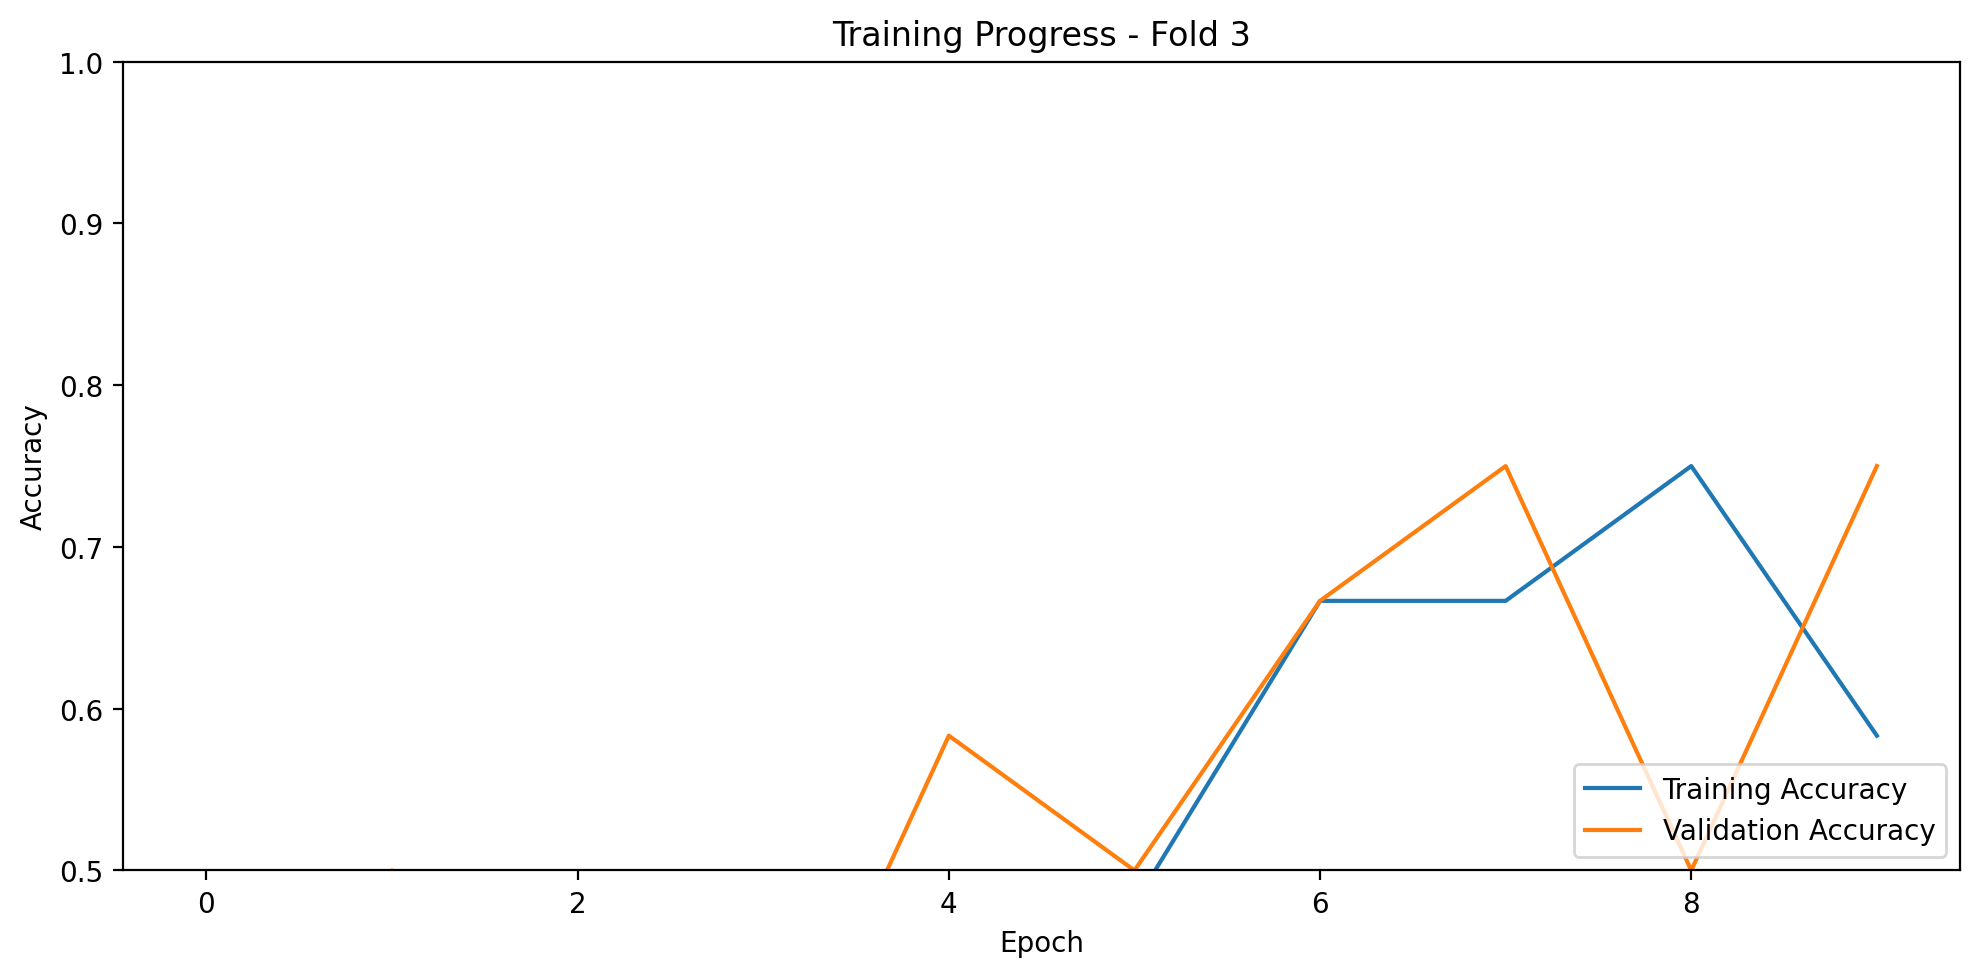
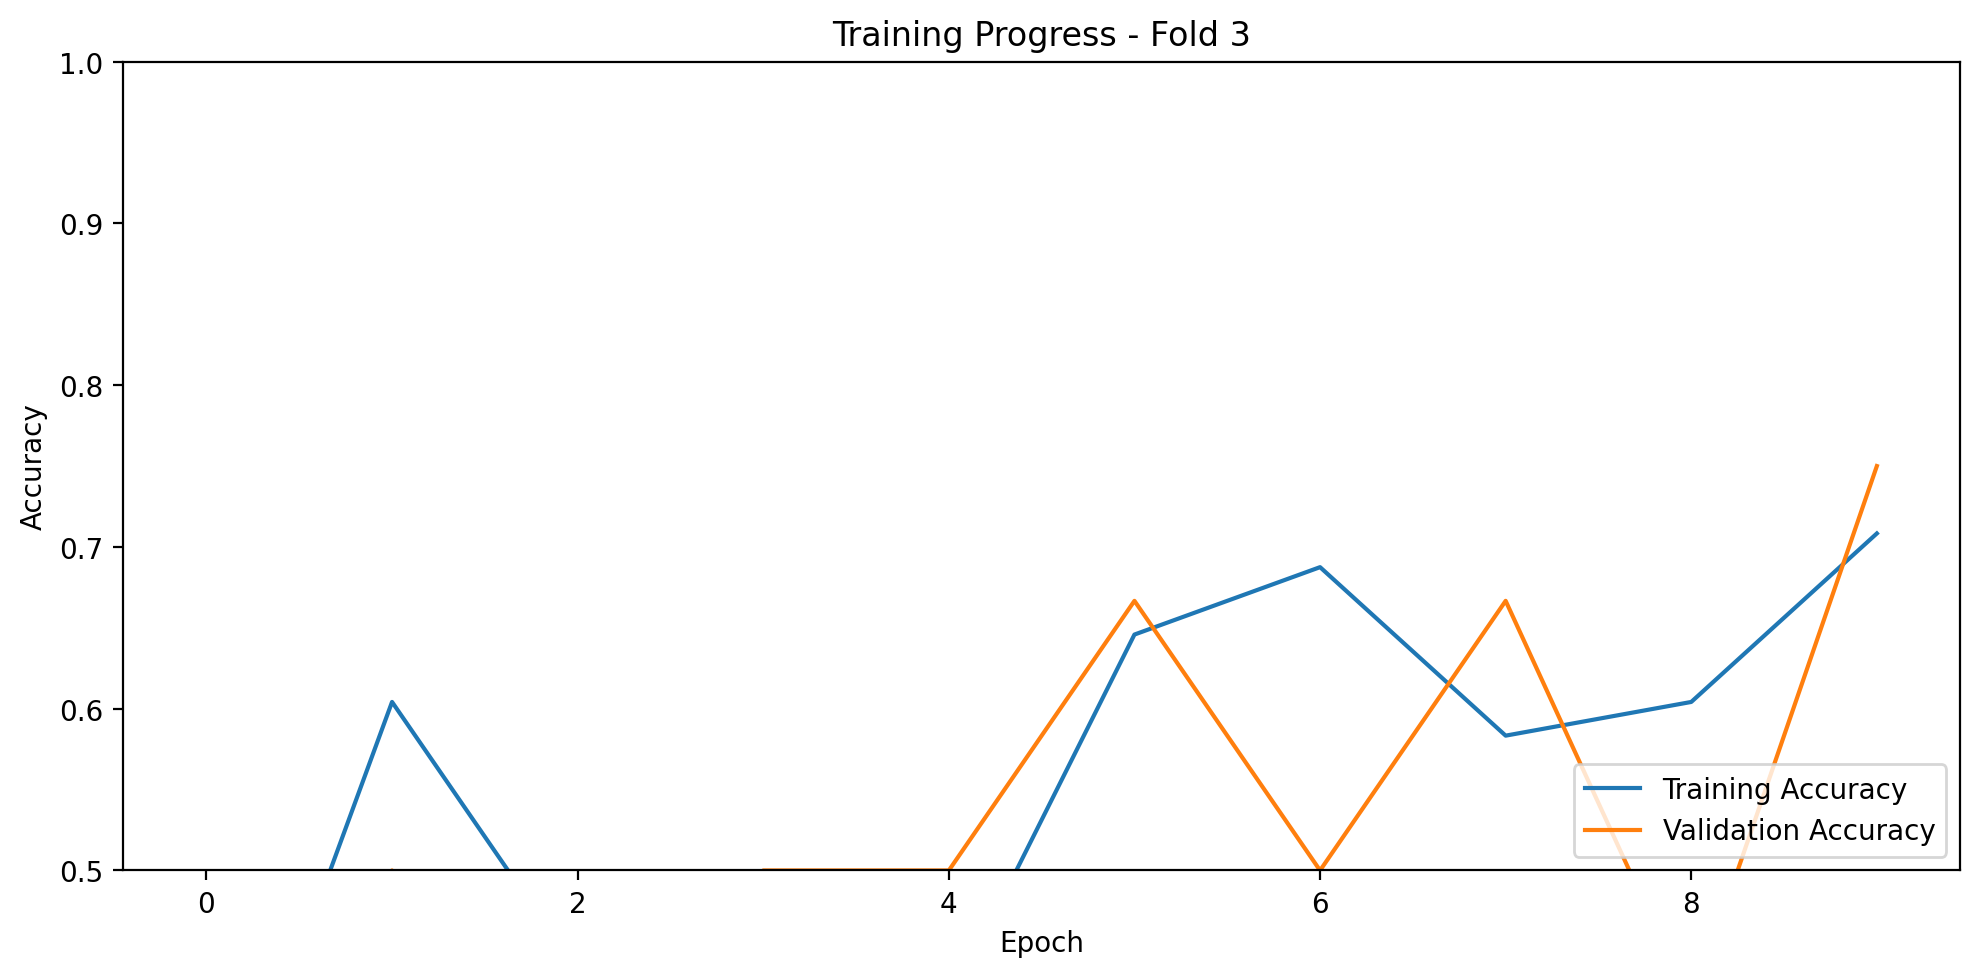
128 filters

diff --git a/src/cnn.py b/src/cnn.py
@@ -11,7 +11,7 @@ import matplotlib.pyplot as plt
 from pathlib import Path
 PROJECT_ROOT = Path(__file__).resolve().parents[1]
 DATA_ROOT = PROJECT_ROOT / "archive-2"   # <— makes ./src/cnn.py robust
-FILTER_SIZE_DEFAULT = 64                 # try 8, 16, 32, 64 ...
+FILTER_SIZE_DEFAULT = 128                 # try 8, 16, 32, 64 ...
 
 # Keras/TensorFlow imports for CNN training with graceful fallback
 # This allows the script to run even if TensorFlow is not installed
